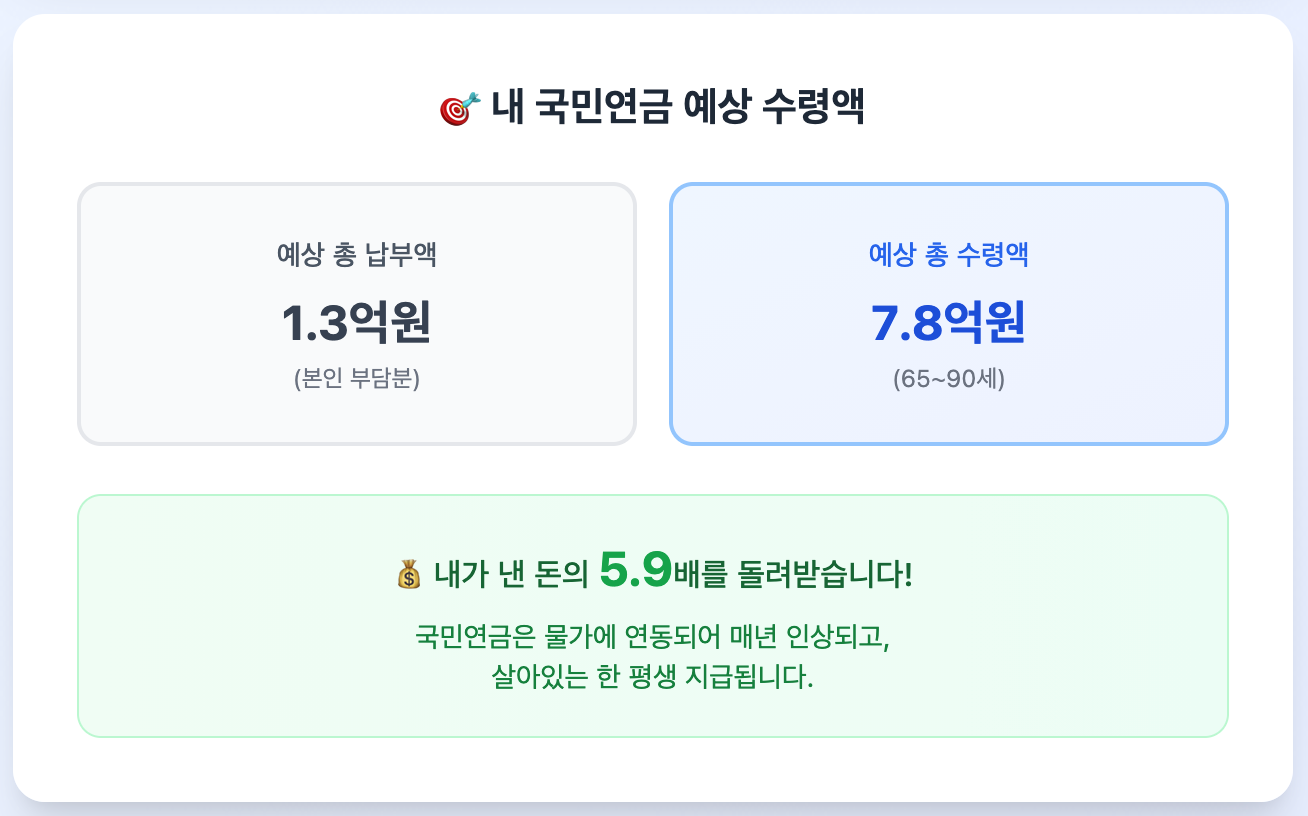
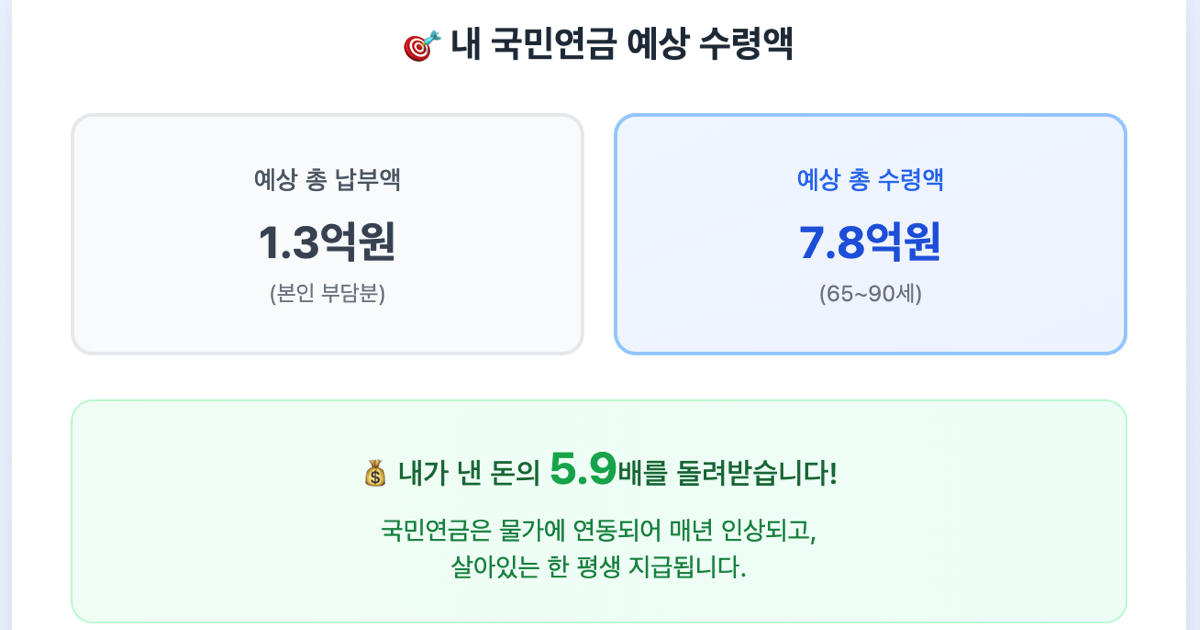
OG Title, Description, 이미지 크기 수정

diff --git a/index.html b/index.html
@@ -4,16 +4,16 @@
   <meta charset="UTF-8">
   <meta name="viewport" content="width=device-width, initial-scale=1.0">
   <title>NotAnotherPension - 내 국민연금 미리보기</title>
-  <meta name="description" content="나이와 연봉만 입력하면 국민연금 예상 수령액과 개인연금 비교를 한눈에 볼 수 있습니다.">
+  <meta name="description" content="나이와 연봉만 입력하면 국민연금 vs. 개인연금 예상 수령액을 바로 확인할 수 있습니다. S&P500 ETF, TDF, 예금형 등 대표 개인연금 상품과 세후 기준으로 비교하고, 내 연금의 손익분기점까지 알아보세요.">
   <meta property="og:type" content="website">
-  <meta property="og:title" content="NotAnotherPension - 내 국민연금 미리보기">
-  <meta property="og:description" content="나이와 연봉만 입력하면 국민연금 예상 수령액과 개인연금 비교를 한눈에 볼 수 있습니다.">
+  <meta property="og:title" content="국민연금 vs. 개인연금 계산기">
+  <meta property="og:description" content="나이와 연봉만 입력하면 국민연금 vs. 개인연금 예상 수령액을 바로 확인할 수 있습니다. S&P500 ETF, TDF, 예금형 등 대표 개인연금 상품과 세후 기준으로 비교하고, 내 연금의 손익분기점까지 알아보세요.">
   <meta property="og:image" content="https://raccoonyy.github.io/NotAnotherPension/docs/preview.png">
   <meta property="og:url" content="https://raccoonyy.github.io/NotAnotherPension/">
   <meta property="og:locale" content="ko_KR">
   <meta name="twitter:card" content="summary_large_image">
-  <meta name="twitter:title" content="NotAnotherPension - 내 국민연금 미리보기">
-  <meta name="twitter:description" content="나이와 연봉만 입력하면 국민연금 예상 수령액과 개인연금 비교를 한눈에 볼 수 있습니다.">
+  <meta name="twitter:title" content="국민연금 vs. 개인연금 계산기">
+  <meta name="twitter:description" content="나이와 연봉만 입력하면 국민연금 vs. 개인연금 예상 수령액을 바로 확인할 수 있습니다. S&P500 ETF, TDF, 예금형 등 대표 개인연금 상품과 세후 기준으로 비교하고, 내 연금의 손익분기점까지 알아보세요.">
   <meta name="twitter:image" content="https://raccoonyy.github.io/NotAnotherPension/docs/preview.png">
   <script src="https://cdn.tailwindcss.com"></script>
 </head>
@@ -26,7 +26,7 @@
         NotAnotherPension
       </h1>
       <p class="text-gray-600">
-        내가 낸 국민연금, 얼마나 돌려받을까?
+        국민연금 vs. 개인연금 계산기
       </p>
     </div>
 